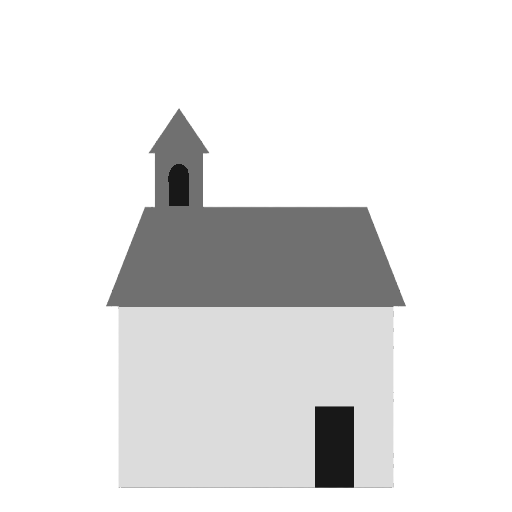
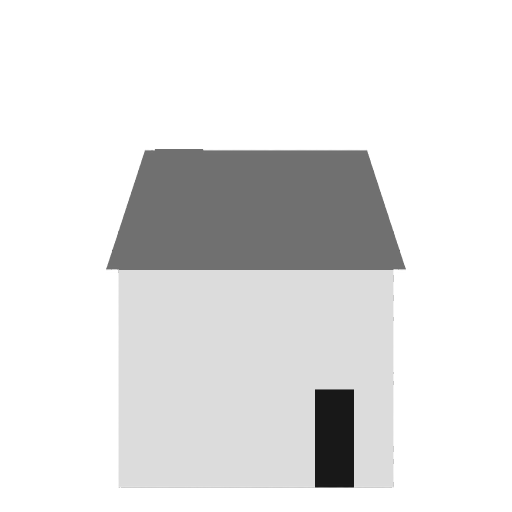
Use observation towers for travel tabs

Changed region(s): [[0.1875, 0.2188, 0.8125, 0.625], [0.5938, 0.75, 0.6875, 0.8125]]

diff --git a/crates/strategic-web/static/css/layout.css b/crates/strategic-web/static/css/layout.css
@@ -144,17 +144,17 @@
 }
 
 .settlement-top-bar[data-building-tier="village"] {
-  --service-icon-bottom: 0.42rem;
+  --service-icon-bottom: 1.2rem;
   --service-icon-size: 1.6rem;
 }
 
 .settlement-top-bar[data-building-tier="town"] {
-  --service-icon-bottom: 0.92rem;
+  --service-icon-bottom: 1.5rem;
   --service-icon-size: 1.7rem;
 }
 
 .settlement-top-bar[data-building-tier="city"] {
-  --service-icon-bottom: 1.28rem;
+  --service-icon-bottom: 2.15rem;
   --service-icon-size: 1.75rem;
 }
 
@@ -340,15 +340,15 @@
    individual assets exist, so a missing higher-tier image never becomes a 404. */
 .settlement-top-bar:is([data-building-tier="village"], [data-building-tier="town"], [data-building-tier="city"])
   .nav-tab[data-service-id="map"] {
-  --service-building-image: url("/static/styles/timber-framed/building/village/map.png?v=gatehouse-1");
+  --service-building-image: url("/static/styles/timber-framed/building/village/map.png?v=watchtower-2");
 }
 .settlement-top-bar:is([data-building-tier="village"], [data-building-tier="town"], [data-building-tier="city"])
   .nav-tab[data-service-id="merchants"] {
-  --service-building-image: url("/static/styles/timber-framed/building/village/merchants.png");
+  --service-building-image: url("/static/styles/timber-framed/building/village/merchants.png?v=facade-2");
 }
 .settlement-top-bar:is([data-building-tier="village"], [data-building-tier="town"], [data-building-tier="city"])
   .nav-tab[data-service-id="weapons"] {
-  --service-building-image: url("/static/styles/timber-framed/building/village/weapons.png");
+  --service-building-image: url("/static/styles/timber-framed/building/village/weapons.png?v=facade-2");
 }
 .settlement-top-bar:is([data-building-tier="village"], [data-building-tier="town"], [data-building-tier="city"])
   .nav-tab[data-service-id="armor"] {
@@ -364,15 +364,15 @@
 }
 .settlement-top-bar:is([data-building-tier="village"], [data-building-tier="town"], [data-building-tier="city"])
   .nav-tab[data-service-id="inn"] {
-  --service-building-image: url("/static/styles/timber-framed/building/village/inn.png");
+  --service-building-image: url("/static/styles/timber-framed/building/village/inn.png?v=facade-2");
 }
 .settlement-top-bar:is([data-building-tier="village"], [data-building-tier="town"], [data-building-tier="city"])
   .nav-tab[data-service-id="religion"] {
-  --service-building-image: url("/static/styles/timber-framed/building/village/religion.png");
+  --service-building-image: url("/static/styles/timber-framed/building/village/religion.png?v=facade-2");
 }
 
 /* Higher tiers are complete sets; village remains the explicit fallback above. */
-.settlement-top-bar[data-building-tier="town"] .nav-tab[data-service-id="map"] { --service-building-image: url("/static/styles/timber-framed/building/town/map.png?v=gatehouse-1"); }
+.settlement-top-bar[data-building-tier="town"] .nav-tab[data-service-id="map"] { --service-building-image: url("/static/styles/timber-framed/building/town/map.png?v=watchtower-2"); }
 .settlement-top-bar[data-building-tier="town"] .nav-tab[data-service-id="merchants"] { --service-building-image: url("/static/styles/timber-framed/building/town/merchants.png"); }
 .settlement-top-bar[data-building-tier="town"] .nav-tab[data-service-id="weapons"] { --service-building-image: url("/static/styles/timber-framed/building/town/weapons.png"); }
 .settlement-top-bar[data-building-tier="town"] .nav-tab[data-service-id="armor"] { --service-building-image: url("/static/styles/timber-framed/building/town/armor.png"); }
@@ -381,7 +381,7 @@
 .settlement-top-bar[data-building-tier="town"] .nav-tab[data-service-id="inn"] { --service-building-image: url("/static/styles/timber-framed/building/town/inn.png"); }
 .settlement-top-bar[data-building-tier="town"] .nav-tab[data-service-id="religion"] { --service-building-image: url("/static/styles/timber-framed/building/town/religion.png"); }
 
-.settlement-top-bar[data-building-tier="city"] .nav-tab[data-service-id="map"] { --service-building-image: url("/static/styles/timber-framed/building/city/map.png?v=gatehouse-1"); }
+.settlement-top-bar[data-building-tier="city"] .nav-tab[data-service-id="map"] { --service-building-image: url("/static/styles/timber-framed/building/city/map.png?v=watchtower-2"); }
 .settlement-top-bar[data-building-tier="city"] .nav-tab[data-service-id="merchants"] { --service-building-image: url("/static/styles/timber-framed/building/city/merchants.png"); }
 .settlement-top-bar[data-building-tier="city"] .nav-tab[data-service-id="weapons"] { --service-building-image: url("/static/styles/timber-framed/building/city/weapons.png"); }
 .settlement-top-bar[data-building-tier="city"] .nav-tab[data-service-id="armor"] { --service-building-image: url("/static/styles/timber-framed/building/city/armor.png"); }
@@ -426,7 +426,7 @@
 .settlement-top-bar[data-environment="settlement"] .service-tab-icon {
   position: absolute;
   left: 50%;
-  bottom: var(--service-icon-bottom, 0.42rem);
+  bottom: var(--service-icon-bottom, 1.2rem);
   width: var(--service-icon-size, 1.6rem);
   height: var(--service-icon-size, 1.6rem);
   transform: translateX(-50%);

diff --git a/crates/strategic-web/src/templates/layout.rs b/crates/strategic-web/src/templates/layout.rs
@@ -90,7 +90,7 @@ fn page_shell(title: &str, header: Markup, content: Markup, scripts: ScriptProfi
                 link rel="stylesheet" href="/static/css/base.css?v=environment-14";
                 // Shared CSS
                 link rel="stylesheet" href="/static/css/reset.css";
-                link rel="stylesheet" href="/static/css/layout.css?v=left-rail-scrollbars-3-settlement-service-art-4";
+                link rel="stylesheet" href="/static/css/layout.css?v=left-rail-scrollbars-3-settlement-watchtowers-8";
                 link rel="stylesheet" href="/static/css/components.css?v=coin-currencies-3";
                 link rel="stylesheet" href="/static/css/strategic.css?v=inventory-browser-15-religion-5-travel-polish-9";
                 link rel="stylesheet" href="/static/css/utilities.css?v=inventory-browser-15";

diff --git a/crates/strategic-web/AGENTS.md b/crates/strategic-web/AGENTS.md
@@ -261,8 +261,12 @@ cartoon village, a textured painting, or a detailed model building.
 - Use the original monochrome PNG masks in `static/icons/settlement-services/`
   for settlement services instead of generic inventory icon SVGs. Keep temple
   marks denomination-specific by resolving the same religion asset used by the
-  skill menu. Travel architecture is always a gatehouse: a fence-gate shack in
-  villages, a civic gate in towns, and a fortified urban gate in cities.
+  skill menu. Travel architecture is always a freestanding watchtower: a
+  modest wooden lookout in villages, a civic masonry tower in towns, and a
+  prestigious urban tower in cities. Every tier needs an accessible roof-level
+  gallery with open views on all four sides so a watchman can patrol and observe
+  through 360 degrees. Keep the enclosed shaft solid and clear for the travel
+  mark; do not use defensive wall towers, gates, or attached walls.
 - Apply the same time-of-day lighting value to both the tinted building raster
   and its service mark. Keep them as separate layers, but do not let the mark
   remain at full daytime brightness while the architecture darkens.
